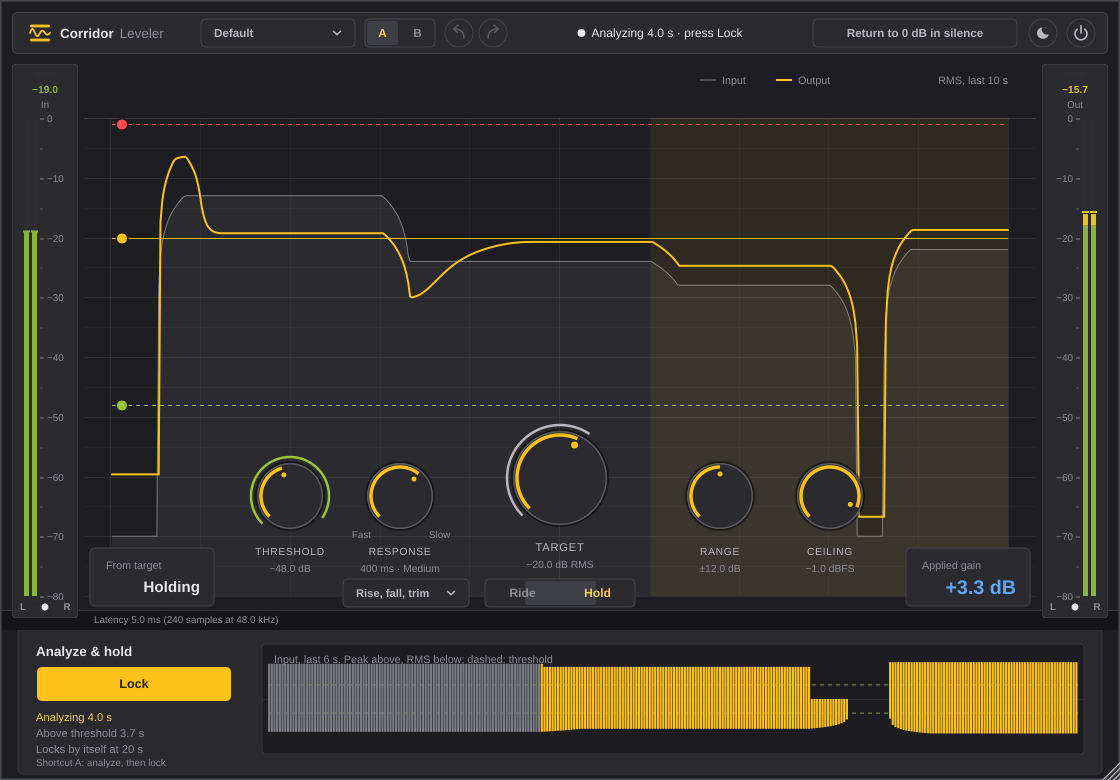
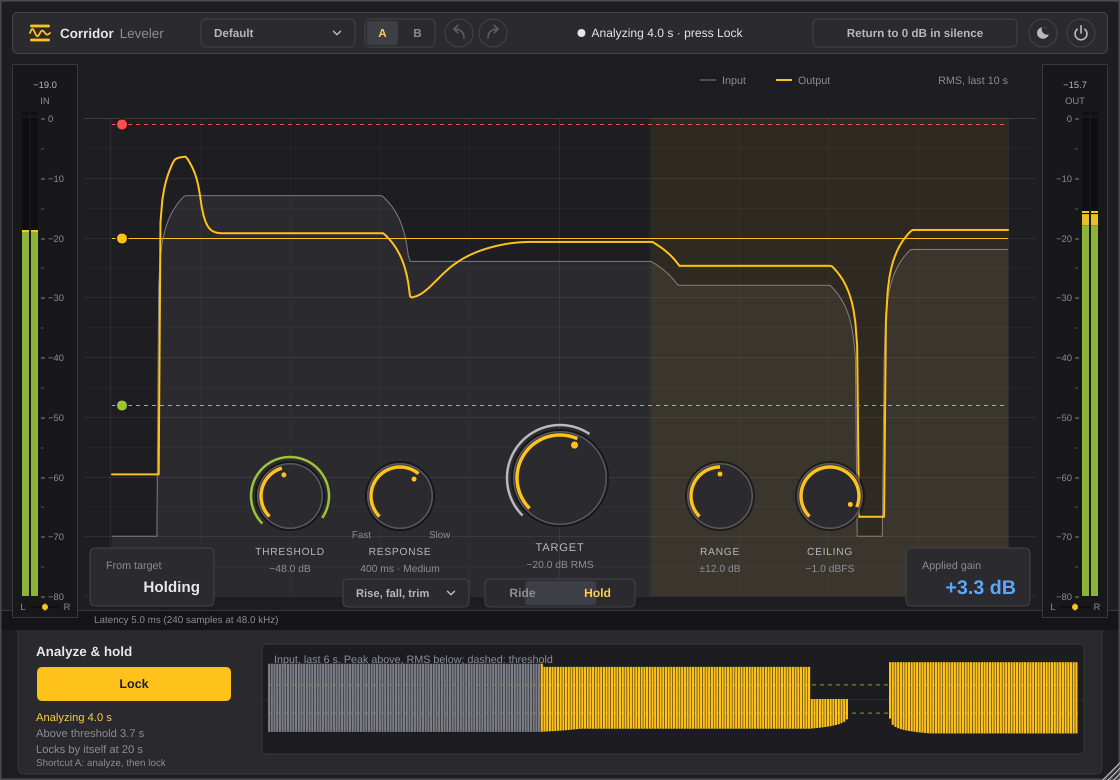
Draw the meters like the reference: slim bars in a plain column
Replace the rounded meter panels with a plain, square column a shade darker
than the window. The left and right bars are slim and square on a dark track,
filled in solid olive, yellow and red zones, with a gold peak-hold tick, red
clip caps and small grey figures.

Claude-Session: https://claude.ai/code/session_01CanfjaouHbrotfhirjsFAW

diff --git a/plugin/src/PluginEditor.cpp b/plugin/src/PluginEditor.cpp
@@ -628,33 +628,35 @@ public:
         const float w = float(getWidth()), cx = w * 0.5f;
         auto ly = [](float v) { return yOf(v) - kMeterY; };  // the graph's scale, in this component's coordinates
         const float top = ly(0.f), bot = ly(-kDbRange);
-        drawGlass(g, gc, *this, capsule(getLocalBounds().toFloat(), 24.f), {Colour(), 1.05f, true, 18.f, 7.f, 1.4f});
-        auto zone = [&](float v) { return v > -6.f ? c.mHot : v > -18.f ? c.mWarn : c.mSafe; };
-        // clip light, peak readout in its zone colour, name
-        g.setColour(hold > -0.5f ? c.mHot : c.meterOff); g.fillRoundedRectangle(cx - 12.f, 8.f, 24.f, 5.f, 2.5f);
-        g.setFont(sans(11.5f, true)); g.setColour(hold > -kDbRange ? zone(hold) : c.muted);
-        g.drawText(hold > -kDbRange ? fmtDb(hold) : String(CharPointer_UTF8("\xe2\x88\x92\xe2\x88\x9e")), Rectangle<float>(0.f, 17.f, w, 16.f), Justification::centred);
-        g.setFont(sans(11.f)); g.setColour(c.muted);
-        g.drawText(input ? "In" : "Out", Rectangle<float>(0.f, 33.f, w, 16.f), Justification::centred);
-        // left and right bars in fixed zones: green up to -18 dBFS, amber to -6, red above
-        const float bw = 5.f, gap = 3.f, bx = input ? 12.f : w - 12.f - bw * 2.f - gap;
+        // a plain column a shade darker than the window, square, with a 1 px edge
+        const Colour column = c.dark ? Colour(0xff18181b) : Colour(0xffd8d8de), track = c.dark ? Colour(0xff0f0f11) : Colour(0xffc2c2ca);
+        g.setColour(column); g.fillRect(getLocalBounds());
+        g.setColour(c.rimSoft); g.drawRect(getLocalBounds(), 1);
+        // peak readout in small grey figures (red once it clips), then the name
+        g.setFont(sans(10.5f)); g.setColour(hold > -0.5f ? c.mHot : c.label);
+        g.drawText(hold > -kDbRange ? fmtDb(hold) : String(CharPointer_UTF8("\xe2\x88\x92\xe2\x88\x9e")), Rectangle<float>(0.f, 14.f, w, 14.f), Justification::centred);
+        g.setFont(sans(10.5f)); g.setColour(c.muted);
+        g.drawText(input ? "IN" : "OUT", Rectangle<float>(0.f, 30.f, w, 14.f), Justification::centred);
+        // slim left and right bars on a dark track, square ends, in solid zones:
+        // olive up to -18 dBFS, yellow to -6, red above; a gold tick for the peak hold, red caps when it clips
+        const float bw = 7.f, gap = 2.f, bx = input ? 10.f : w - 10.f - bw * 2.f - gap;
         const float y18 = ly(-18.f), y6 = ly(-6.f);
         const float pk[2] = {peakL, peakR};
         for (int ch = 0; ch < 2; ++ch) {
             const float x = bx + float(ch) * (bw + gap);
-            g.setColour(c.meterOff); g.fillRoundedRectangle(x, top, bw, bot - top, 2.5f);
+            g.setColour(track); g.fillRect(x, top, bw, bot - top);
             if (pk[ch] > -kDbRange) {
                 const float t = ly(jmin(0.f, pk[ch]));
-                // three solid zones, each filled only as far as the level reaches
                 g.setColour(c.mSafe); g.fillRect(x, jmax(t, y18), bw, bot - jmax(t, y18));
                 if (t < y18) { g.setColour(c.mWarn); g.fillRect(x, jmax(t, y6), bw, y18 - jmax(t, y6)); }
                 if (t < y6) { g.setColour(c.mHot); g.fillRect(x, t, bw, y6 - t); }
             }
-            if (hold > -kDbRange) { g.setColour(zone(hold)); g.fillRect(x - 1.f, ly(jmin(0.f, hold)) - 1.f, bw + 2.f, 2.f); }
+            if (hold > -kDbRange) { g.setColour(c.data); g.fillRect(x, std::round(ly(jmin(0.f, hold))) - 1.f, bw, 2.f); }
+            g.setColour(hold > -0.5f ? c.mHot : track); g.fillRect(x, top - 6.f, bw, 3.f);
         }
         // the graph's marks: a tick every 5 dB, a number every 10, at the same heights
         const float tickX = input ? bx + bw * 2.f + gap + 3.f : bx - 7.f;
-        g.setFont(sans(11.f));
+        g.setFont(sans(10.5f));
         for (int v = 0; v >= -80; v -= 5) {
             const float y = std::round(ly(float(v))) + 0.5f;
             const bool major = v % 10 == 0;
@@ -667,12 +669,12 @@ public:
         }
         // stereo balance: L and R at the ends of a short track, the dot leans to the louder side
         const float by = bot + 11.f, half = 15.f, lean = jlimit(-1.f, 1.f, balance / 4.f);
-        g.setColour(c.muted); g.setFont(sans(11.f, true));
+        g.setColour(c.muted); g.setFont(sans(10.5f));
         g.drawText("L", Rectangle<float>(cx - half - 13.f, by - 7.f, 12.f, 14.f), Justification::centred);
         g.drawText("R", Rectangle<float>(cx + half + 1.f, by - 7.f, 12.f, 14.f), Justification::centred);
-        g.setColour(c.meterOff); g.fillRoundedRectangle(cx - half, by - 1.5f, half * 2.f, 3.f, 1.5f);
+        g.setColour(track); g.fillRect(cx - half, by - 1.f, half * 2.f, 2.f);
         g.setColour(c.muted); g.fillRect(cx - 0.5f, by - 4.f, 1.f, 8.f);
-        g.setColour(c.ink); g.fillEllipse(cx - lean * half - 3.5f, by - 3.5f, 7.f, 7.f);
+        g.setColour(c.data); g.fillEllipse(cx - lean * half - 3.f, by - 3.f, 6.f, 6.f);
     }
     void mouseDown(const MouseEvent&) override { dsp.resetPeakHolds(); }
 

diff --git a/README.md b/README.md
@@ -50,8 +50,9 @@ as solid panels with a thin edge, with no gradients or glow. Dials are matte dis
 just inside the rim and a gold dot for a pointer; Threshold and Target add a thin outer arc showing the live
 input and output level. Anything switched on turns gold. It is dark charcoal by default, with a light version on the
 sun / moon switch, and a plain edge keeps the window distinct on black, dark or white backgrounds. It can be
-resized freely (it keeps its shape). The meters show left and right with a balance dot, in green, amber and red
-zones, marked at the graph's heights. The bottom corners show how far the output is from the target and the
+resized freely (it keeps its shape). The meters are slim left and right bars in a plain darker column, filled in
+solid olive, yellow and red zones with a gold peak-hold tick and red caps when they clip, marked at the graph's
+heights, with a balance dot underneath. The bottom corners show how far the output is from the target and the
 applied gain; the latency is in the status strip along the bottom (5 ms at every sample rate). A one-time tip explains the two settings that matter most.
 
 ![Hold mode with the analysis sheet open](docs/window-hold.png)
